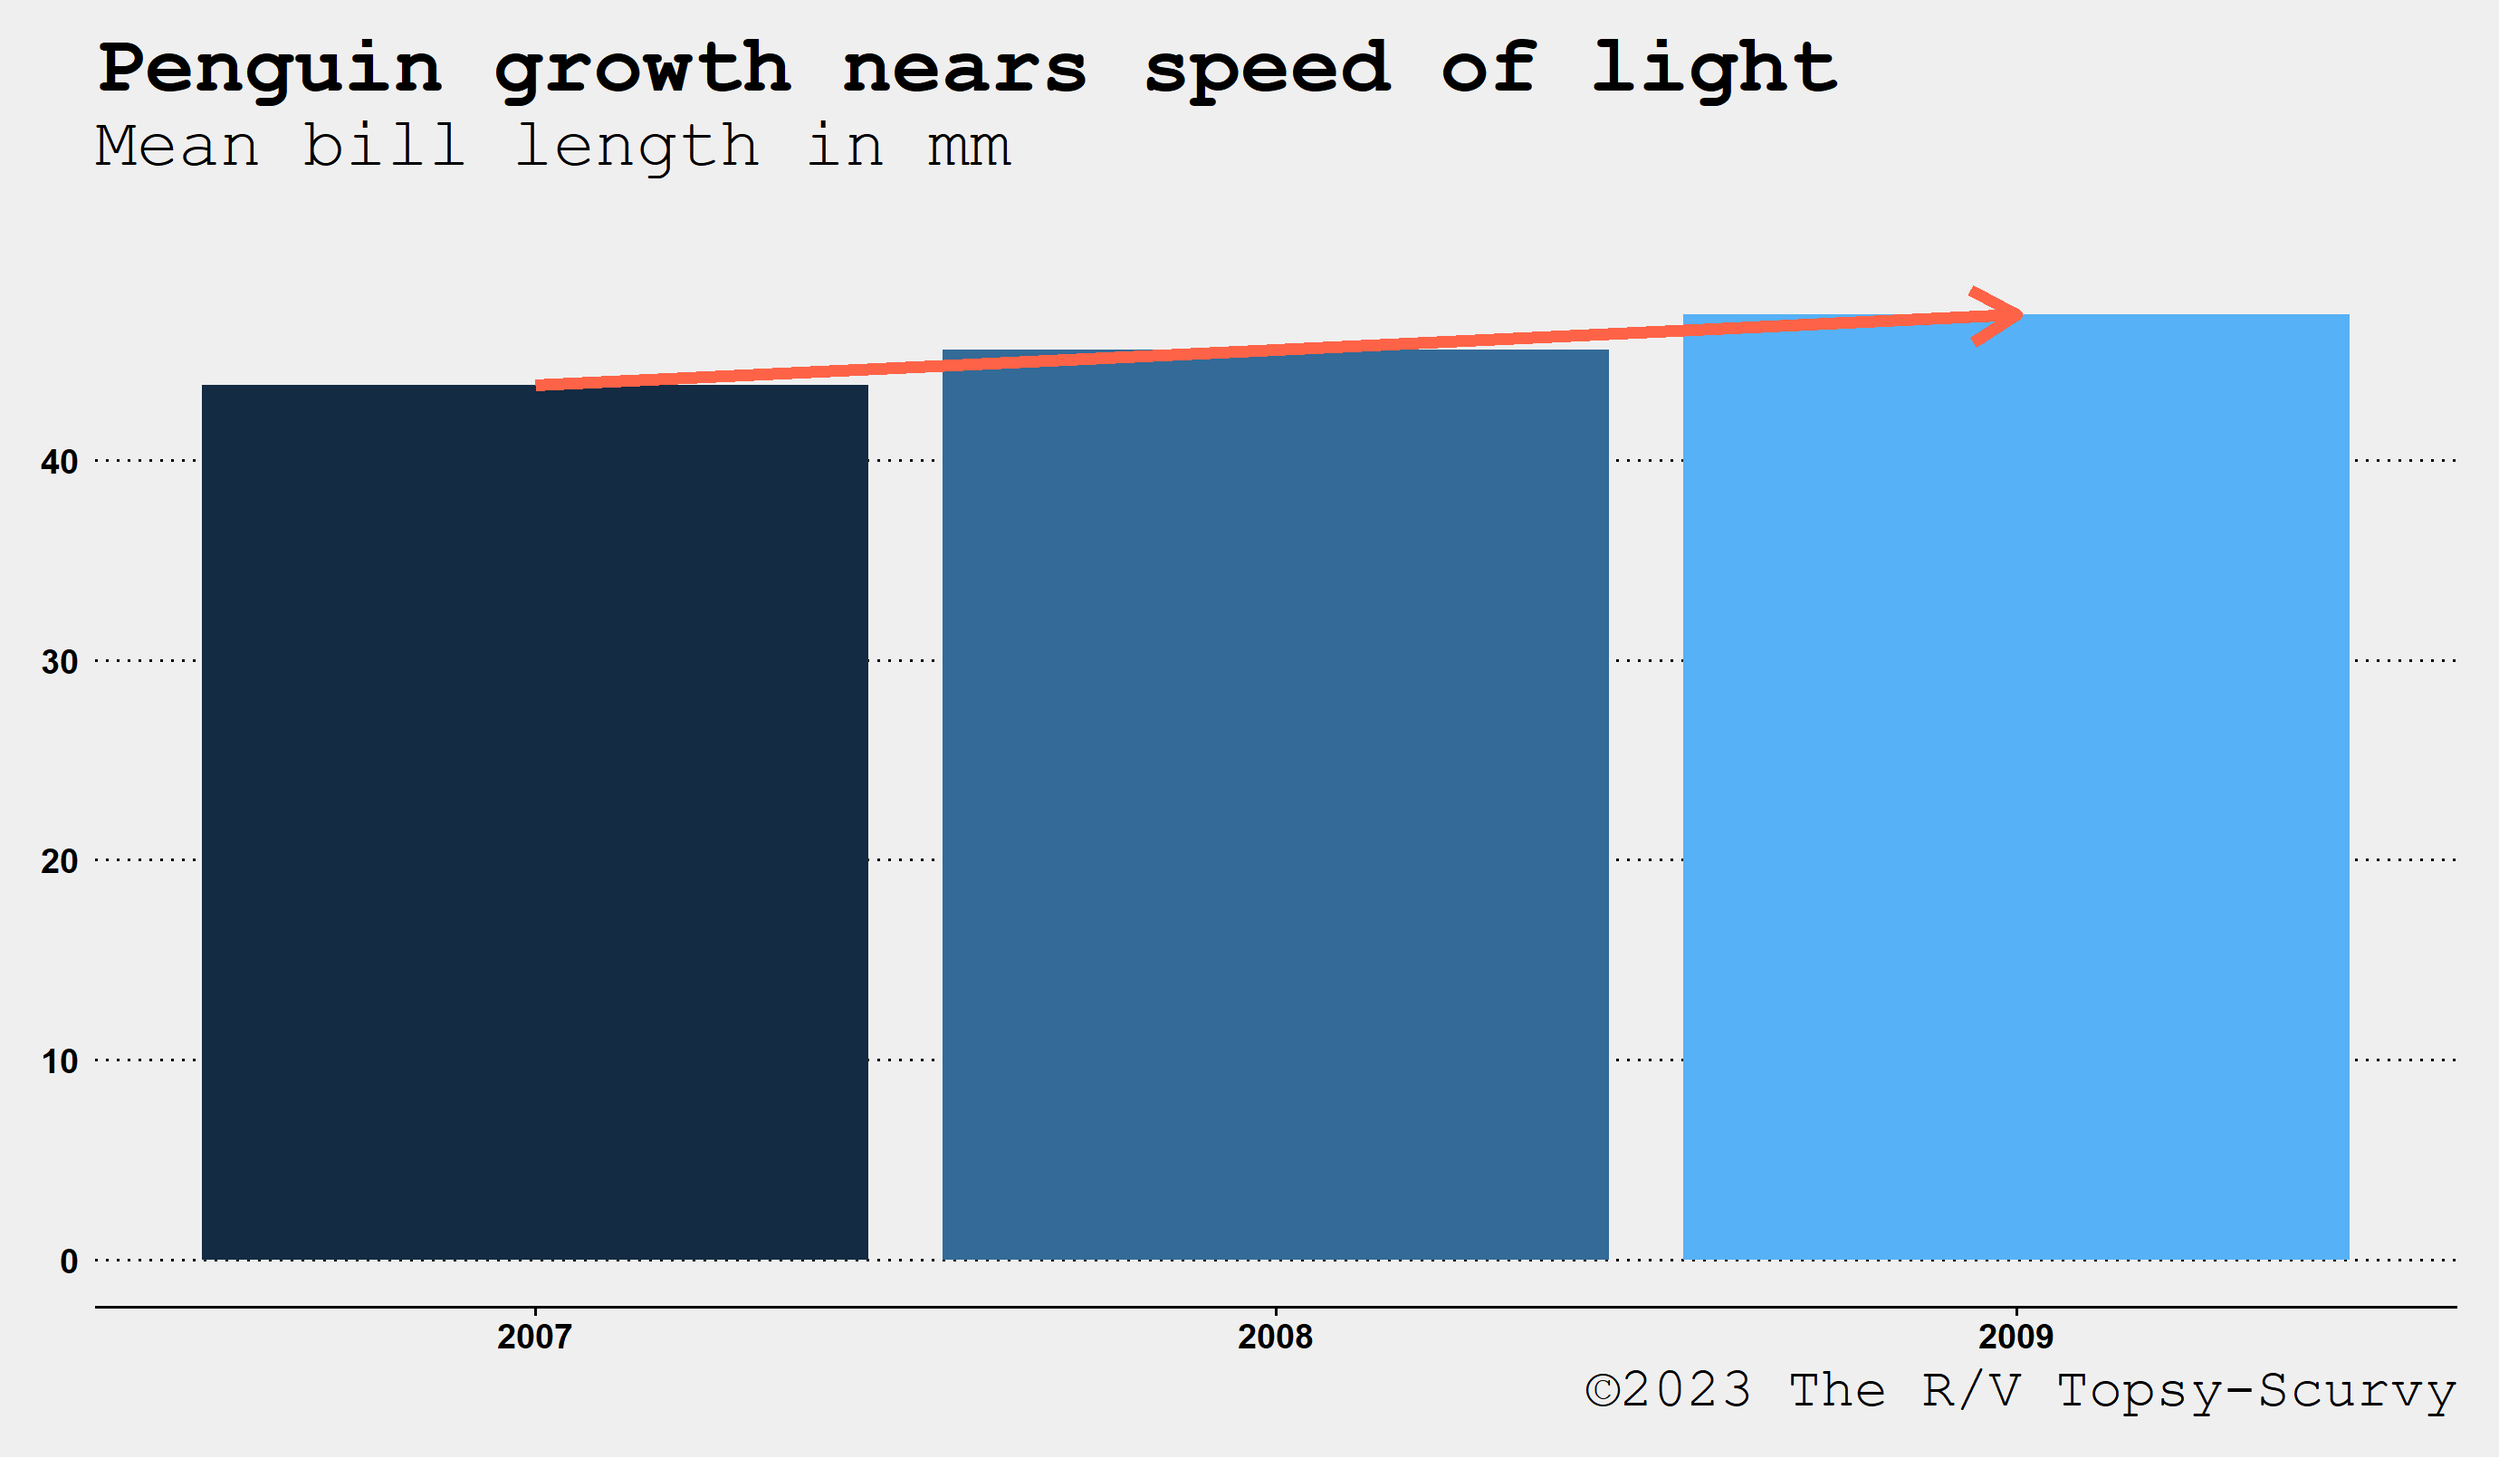
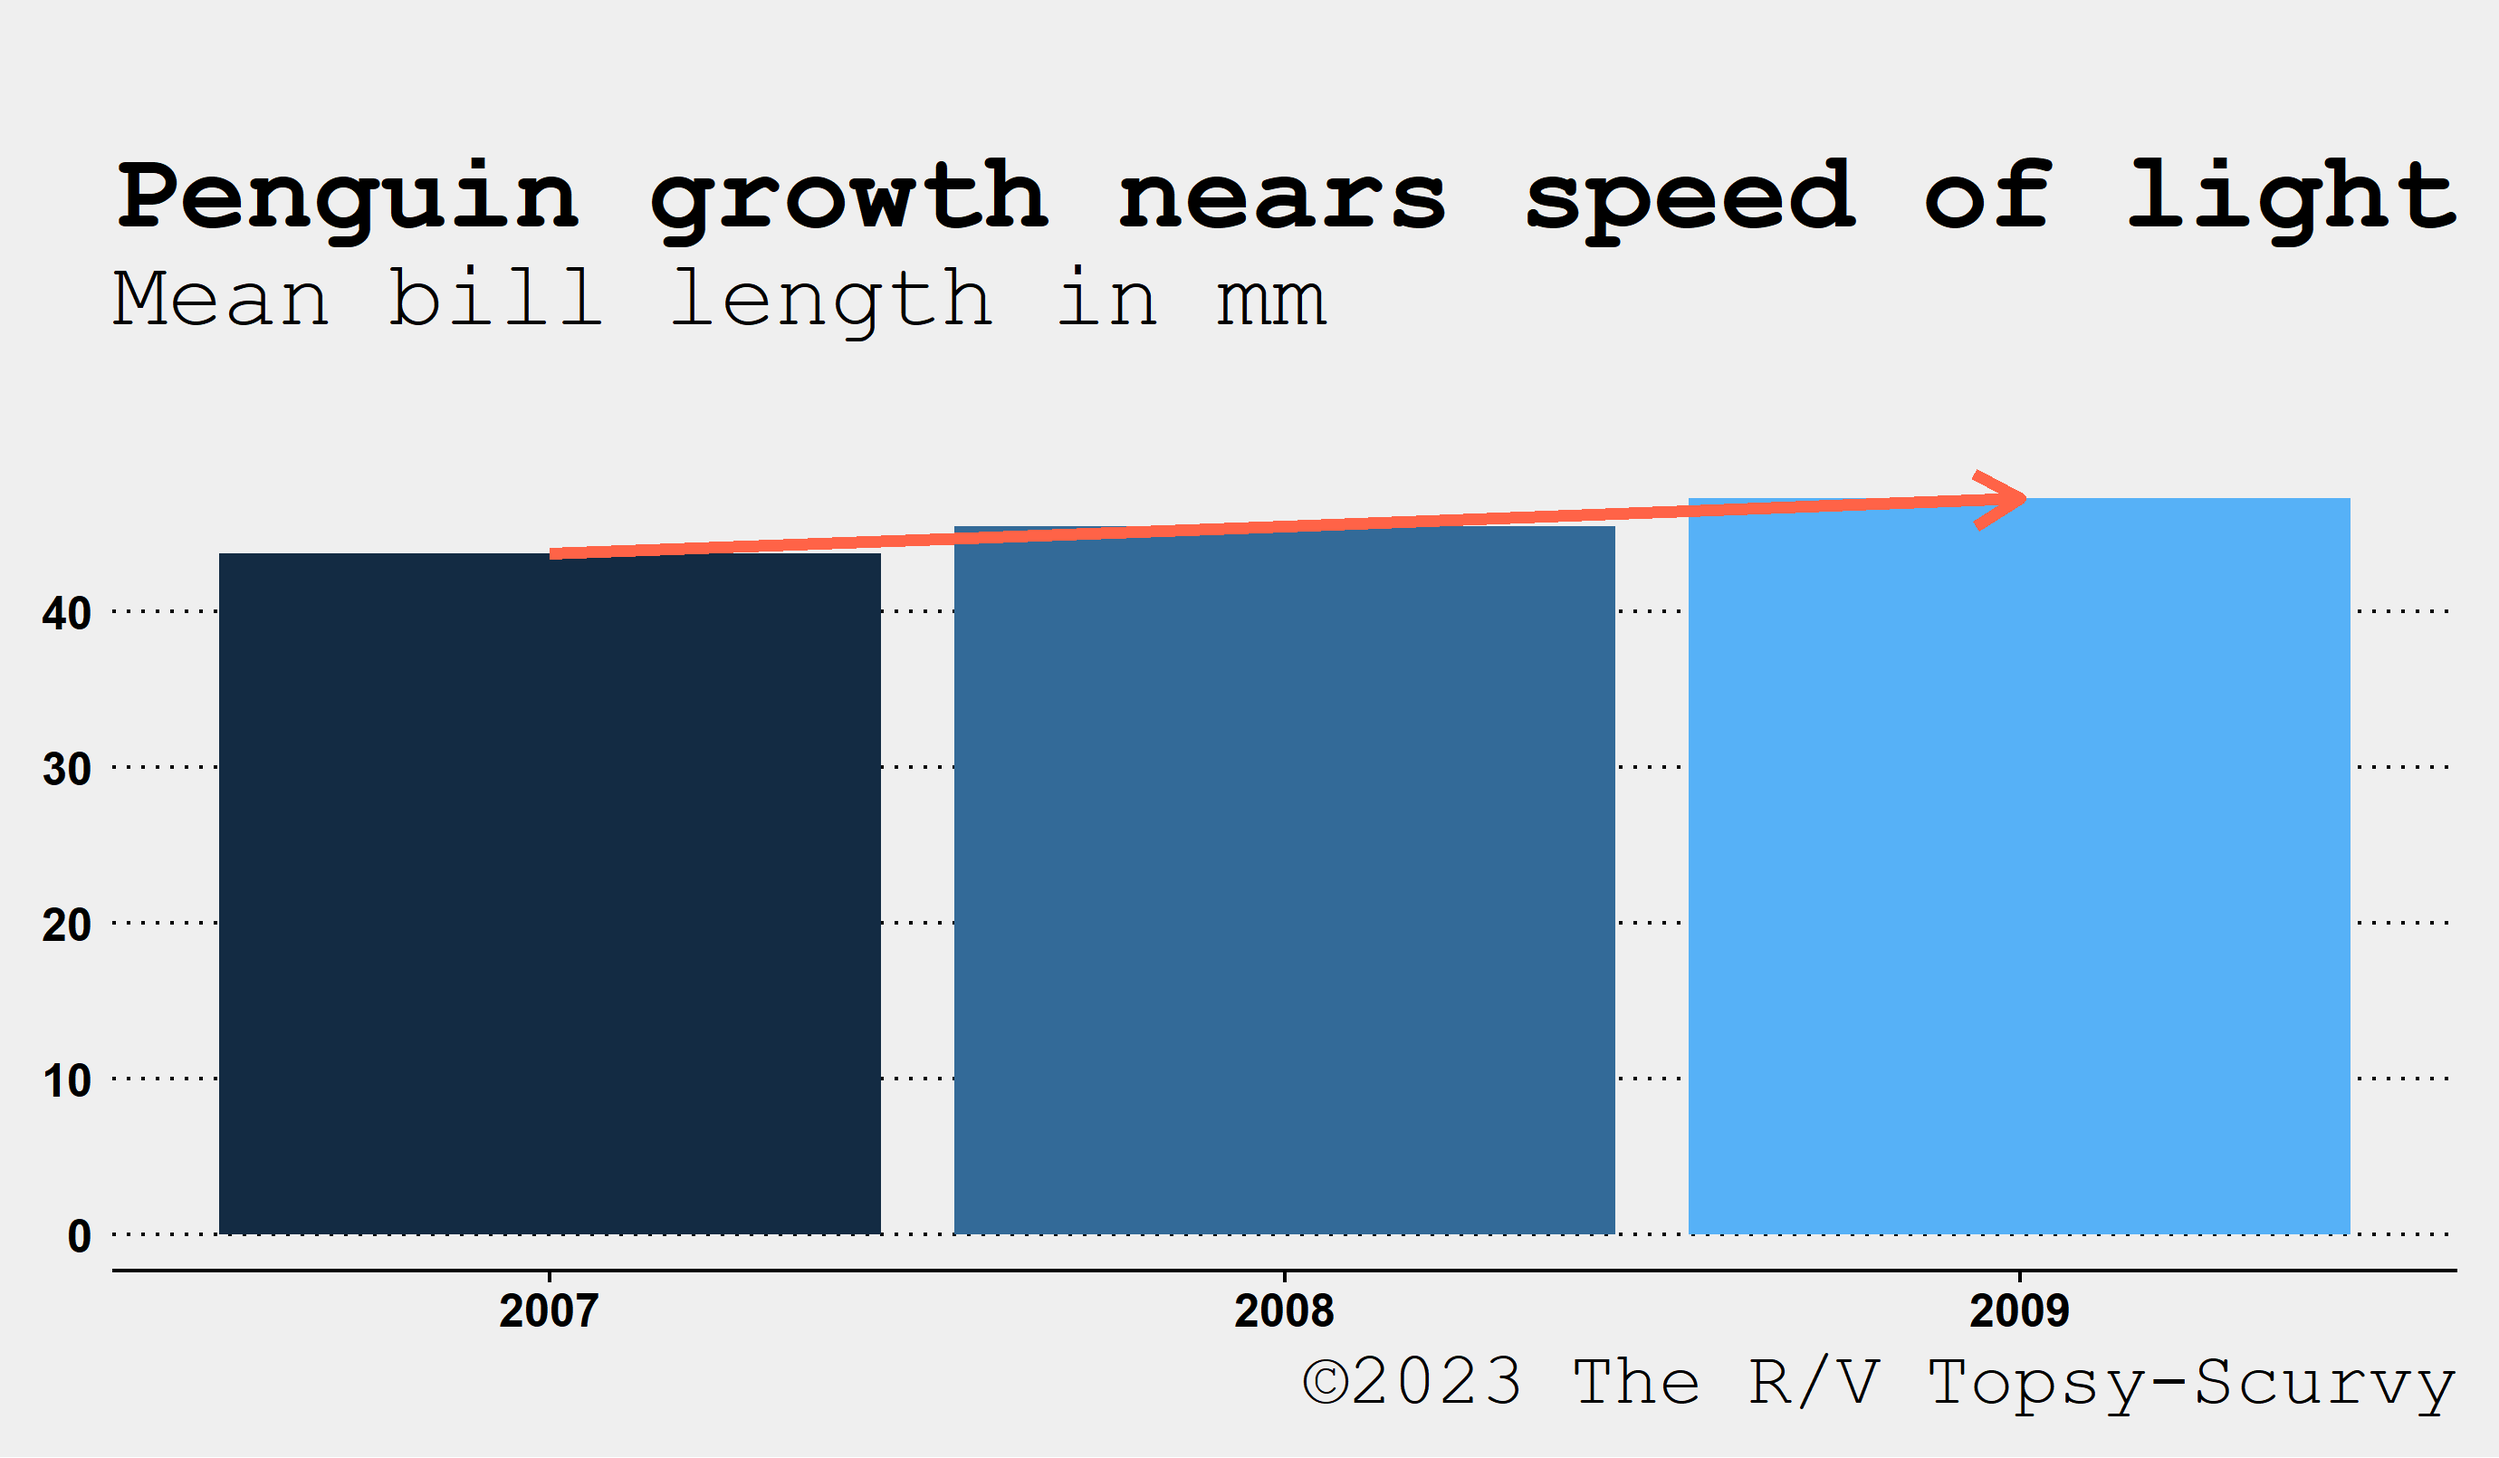
title space

diff --git a/slides/day3/03-2-Facets-labels-colors.html b/slides/day3/03-2-Facets-labels-colors.html
@@ -700,6 +700,10 @@ ggplot(mean_bill_lengths,
 
 ---
 
+.shift-up[
+### With set Y-axes limit
+]
+
 ![](03-2-Facets-labels-colors_files/figure-html/chunk-a-1.png)&lt;!-- --&gt;
 
 
@@ -908,7 +912,6 @@ class: inverse, middle, center
 
 # .bigger[.blue[theme_*( )]]
 
-
 ---
 class: center
 
@@ -1012,7 +1015,7 @@ class: inverse, middle, center
 ---
 class: inverse, middle, center
 
-# .bigger[.blue[Colors and legends]]
+# .bigger[.blue[colors and legends]]
 
 ---
 exclude: true
